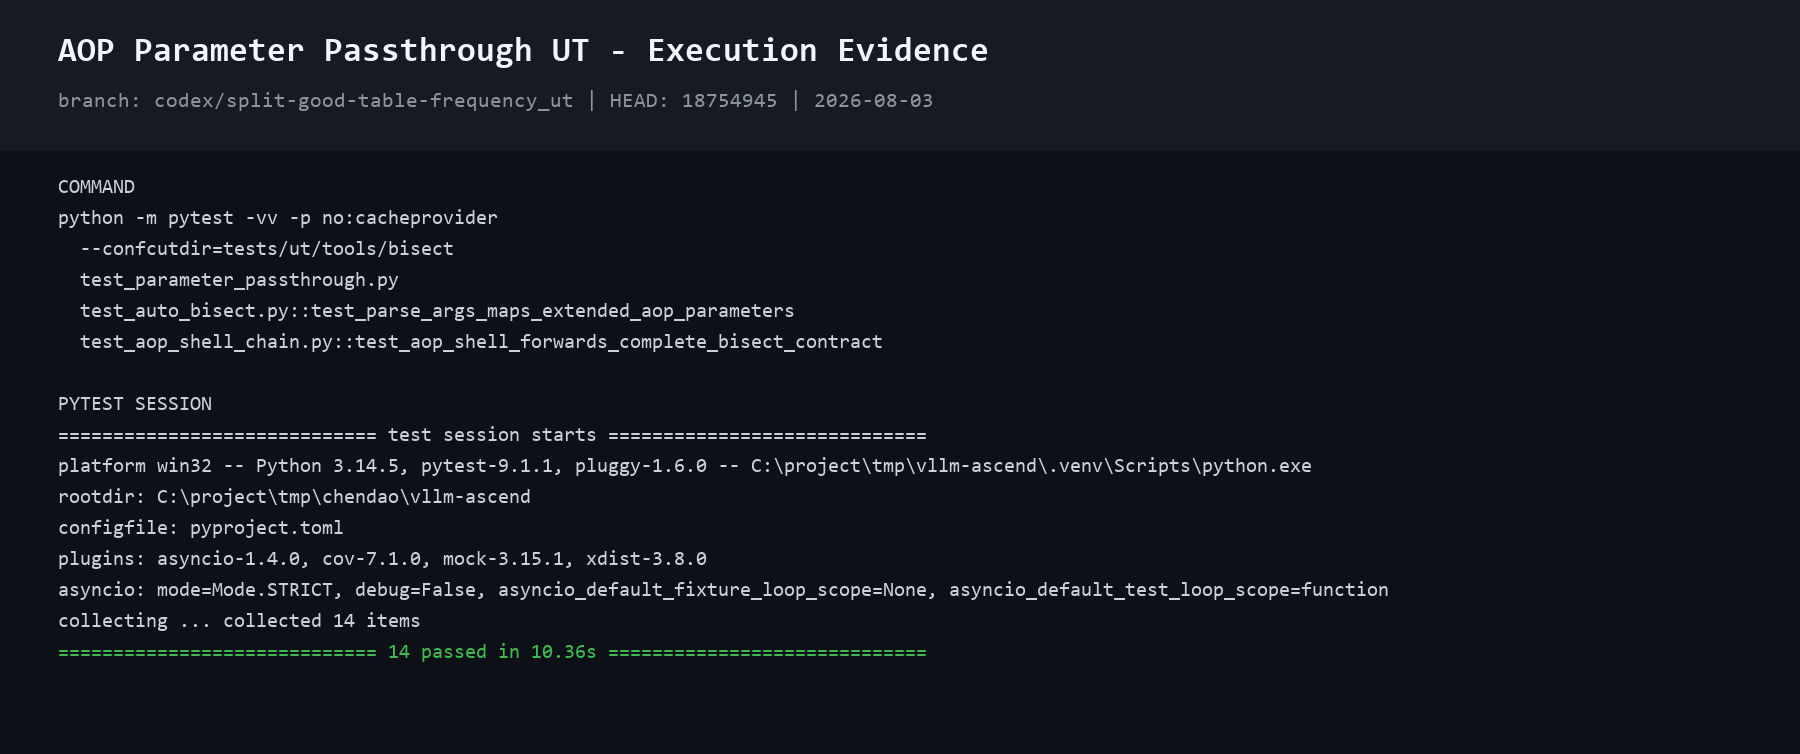
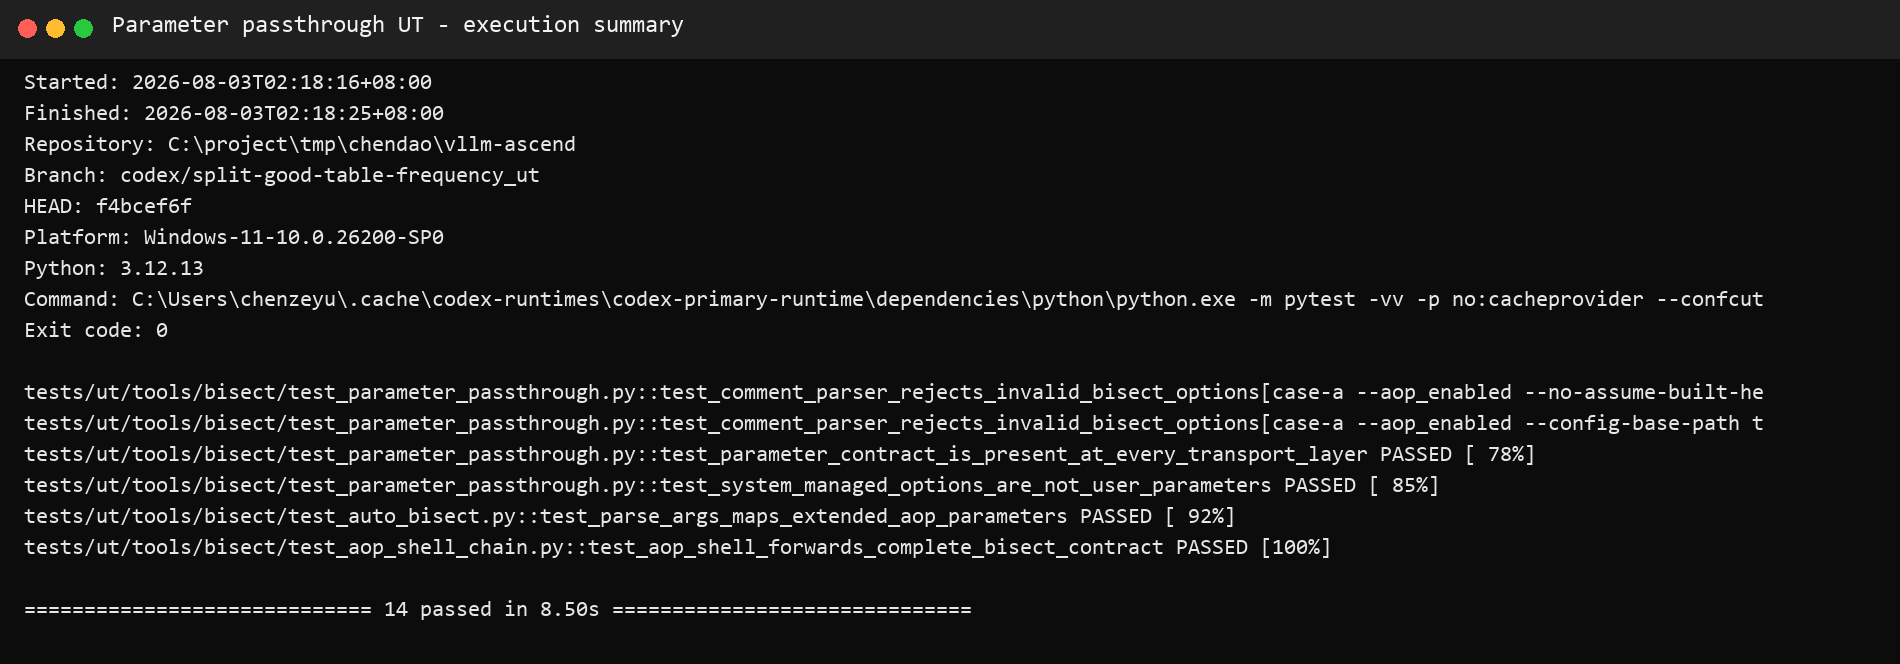
test(bisect): refresh parameter passthrough UT evidence
Re-run the 14 focused parameter transport checks on the current UT branch and embed reproducible execution screenshots plus the source console log in the dedicated report.

diff --git a/tools/bisect/PARAMETER_PASSTHROUGH_UT_REPORT_zh.md b/tools/bisect/PARAMETER_PASSTHROUGH_UT_REPORT_zh.md
@@ -51,9 +51,9 @@ PR 评论 /nightly 或 /weekly
 | 执行日期 | 2026-08-03（Asia/Shanghai） |
 | 仓库 | `C:\project\tmp\chendao\vllm-ascend` |
 | 分支 | `codex/split-good-table-frequency_ut` |
-| 被测 HEAD | `18754945` |
-| 系统 | Windows 10 |
-| Python | 3.14.5 |
+| 被测 HEAD | `f4bcef6f` |
+| 系统 | Windows 11（10.0.26200） |
+| Python | 3.12.13 |
 | pytest | 9.1.1 |
 
 执行命令：
@@ -61,6 +61,7 @@ PR 评论 /nightly 或 /weekly
 ```powershell
 python -m pytest -vv -p no:cacheprovider `
   --confcutdir=tests/ut/tools/bisect `
+  --basetemp=.tmp-parameter-passthrough `
   tests/ut/tools/bisect/test_parameter_passthrough.py `
   tests/ut/tools/bisect/test_auto_bisect.py::test_parse_args_maps_extended_aop_parameters `
   tests/ut/tools/bisect/test_aop_shell_chain.py::test_aop_shell_forwards_complete_bisect_contract
@@ -70,15 +71,15 @@ python -m pytest -vv -p no:cacheprovider `
 
 ```text
 collected 14 items
-14 passed in 10.36s
+14 passed in 8.50s
 ```
 
 原始控制台日志保存在
-[`test_evidence/parameter_passthrough_ut_console_20260803.txt`](./test_evidence/parameter_passthrough_ut_console_20260803.txt)，报告中的结果截图由该日志生成。
+[`test_evidence/parameter_passthrough_ut_console_20260803.txt`](./test_evidence/parameter_passthrough_ut_console_20260803.txt)。两张截图均由本次 pytest 原始 stdout 同源生成：第一张保留执行时间、仓库、分支、HEAD、命令、退出码和汇总，第二张展示 14 个 pytest 展开项的逐项结果；截图内容可由原始日志复核。
 
 ### 3.1 实际执行步骤
 
-1. 进入 `_ut` 分支仓库并确认被测 HEAD 为 `18754945`。
+1. 进入 `_ut` 分支仓库并确认被测 HEAD 为 `f4bcef6f`。
 2. 使用 `--confcutdir=tests/ut/tools/bisect` 隔离与本专项无关的顶层 NPU/Torch fixture。
 3. 显式选择 `test_parameter_passthrough.py`，只运行评论解析、默认值、异常校验和跨层协议检查。
 4. 单独选择 `test_parse_args_maps_extended_aop_parameters`，验证透传结束后的真实 argparse 结果。
